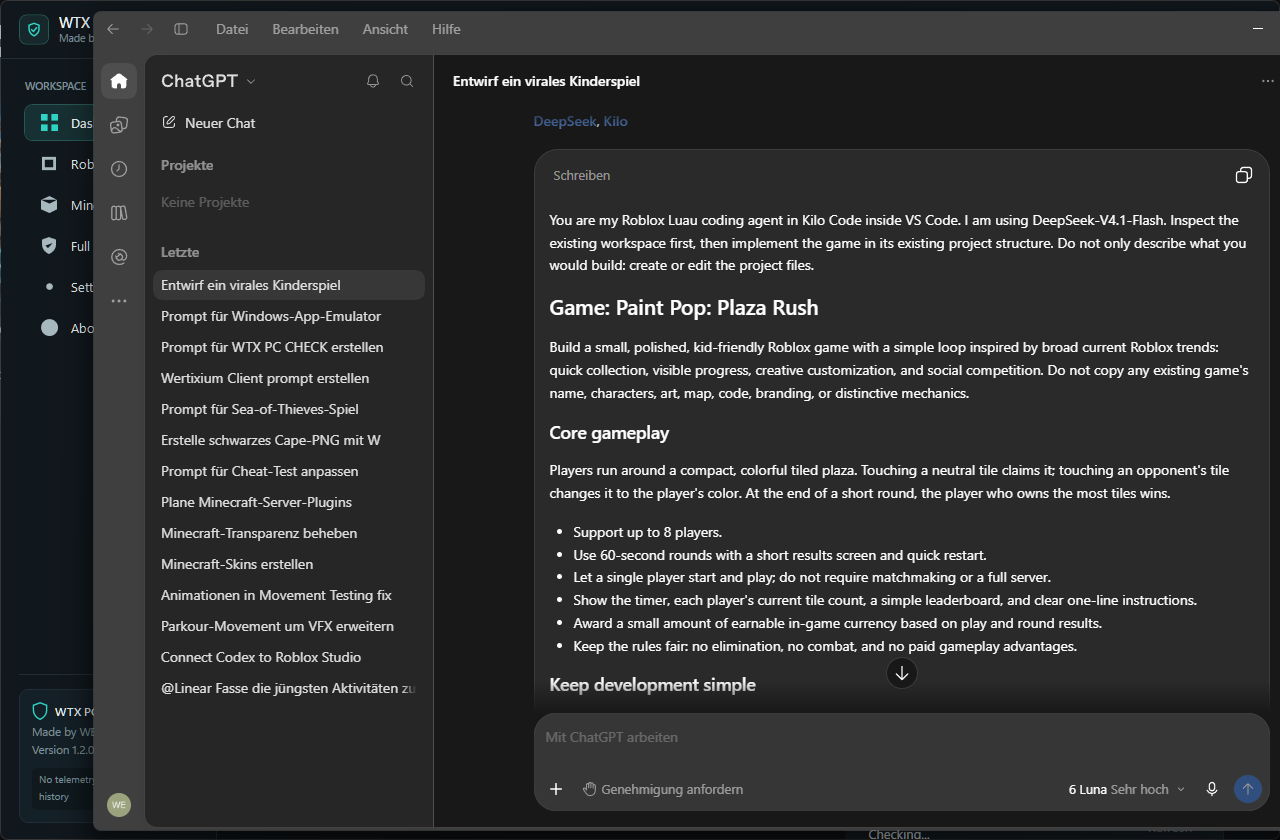
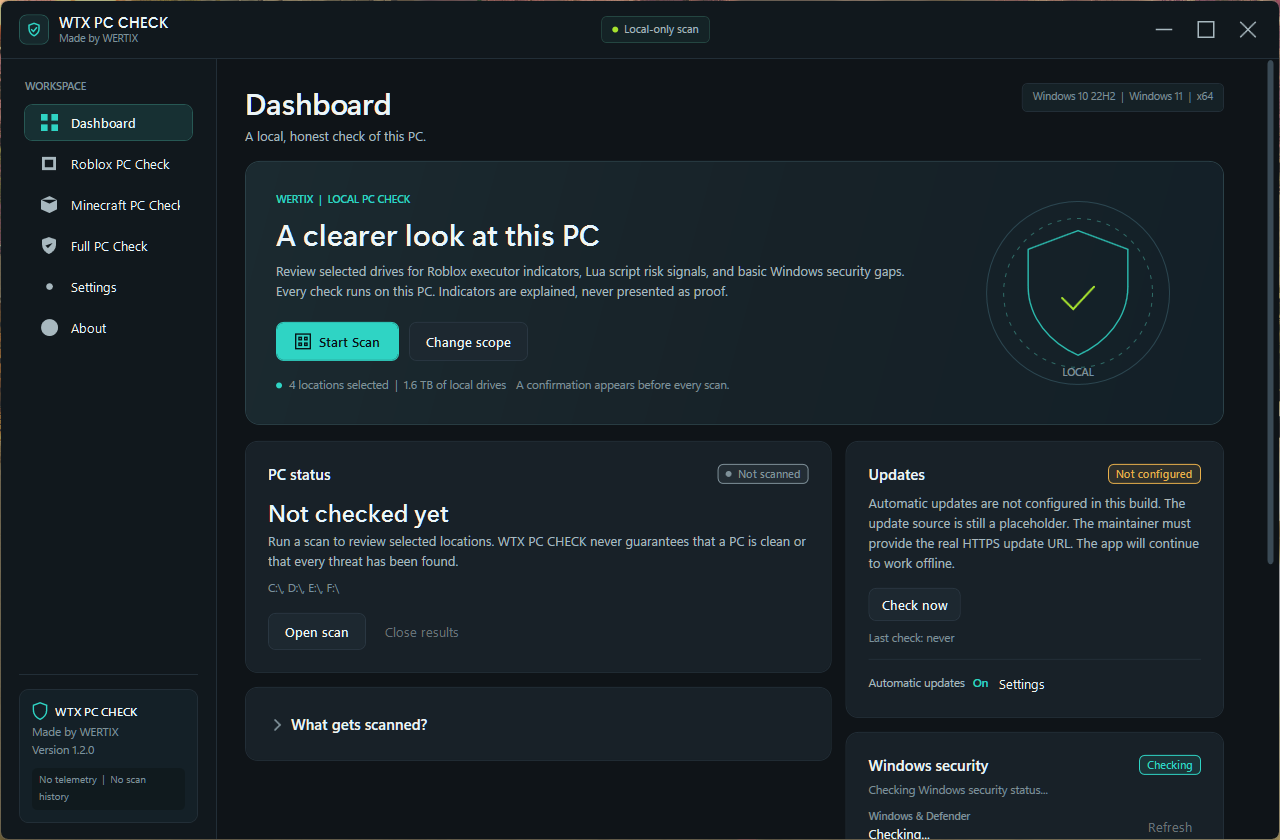
Replace Windows previews and add Linux scan preview

diff --git a/README.md b/README.md
@@ -30,6 +30,10 @@ Real application captures from the delivered builds. Windows previews come from 
 |---|---|
 | ![Windows privacy confirmation](docs/previews/windows-privacy.png) | ![Linux dashboard](docs/previews/linux-dashboard.png) |
 
+**Linux scan setup (Avalonia, captured from the AppImage under X11):**
+
+![Linux scan setup](docs/previews/linux-scan.png)
+
 ### Languages and platform
 
 | Area | Language / framework |
@@ -341,6 +345,7 @@ Linux packages were built on Ubuntu 24.04 in GitHub Actions and the AppImage and
 ## Attribution
 
 Made by WERTIX. (c) 2026 WERTIX. No third-party packages beyond the .NET, WPF, and Avalonia runtimes.
+
 
 
 

diff --git a/README-Linux.md b/README-Linux.md
@@ -4,6 +4,8 @@
 
 ![Linux dashboard preview](docs/previews/linux-dashboard.png)
 
+![Linux scan page preview](docs/previews/linux-scan.png)
+
 WTX PC CHECK is a local, defensive PC checker for Linux x64. It keeps the existing Roblox and Minecraft scan categories and adds Linux-native, read-only security checks. The Windows build remains available as `WTX-PC-CHECK.exe`.
 
 ## Download and run
@@ -126,5 +128,6 @@ Self-test:
 ```bash
 ./publish/linux/app/WTX-PC-CHECK --self-test ./linux-selftest.txt
 ```
+
 
 
